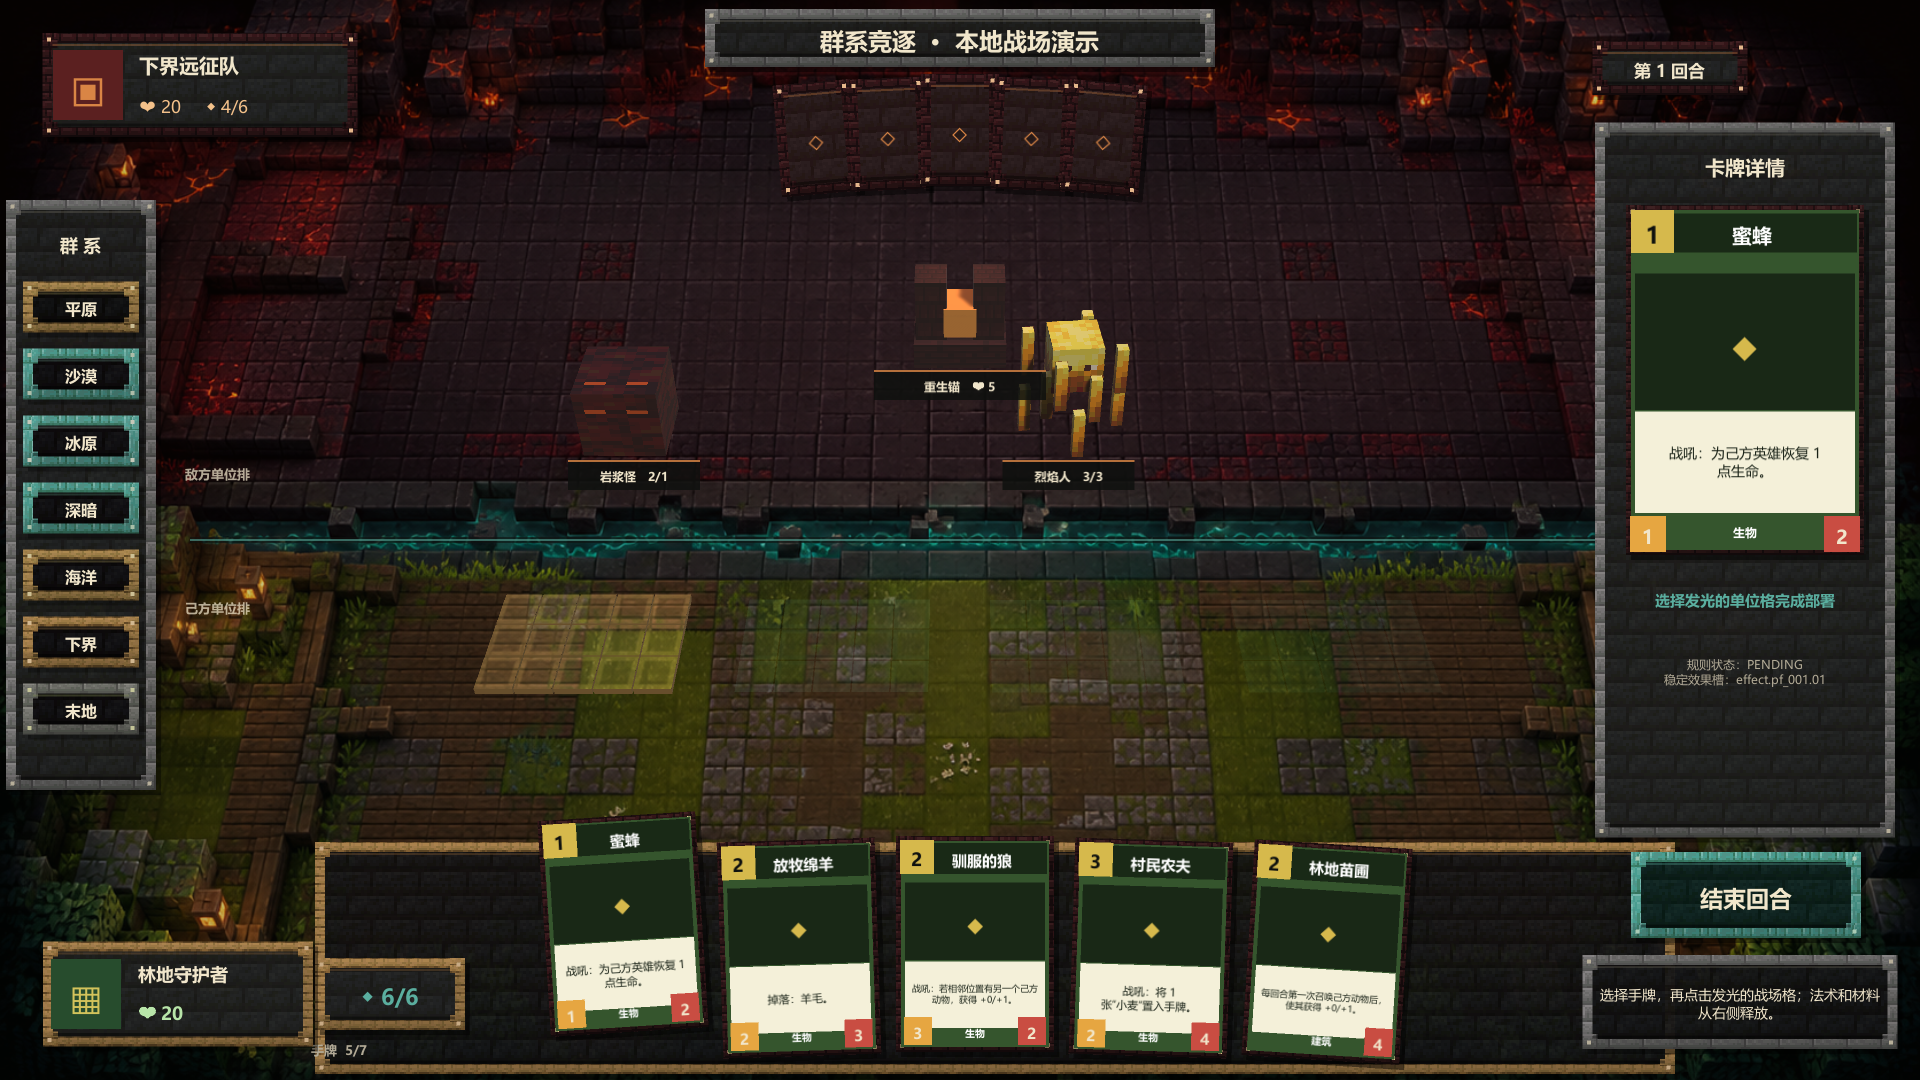
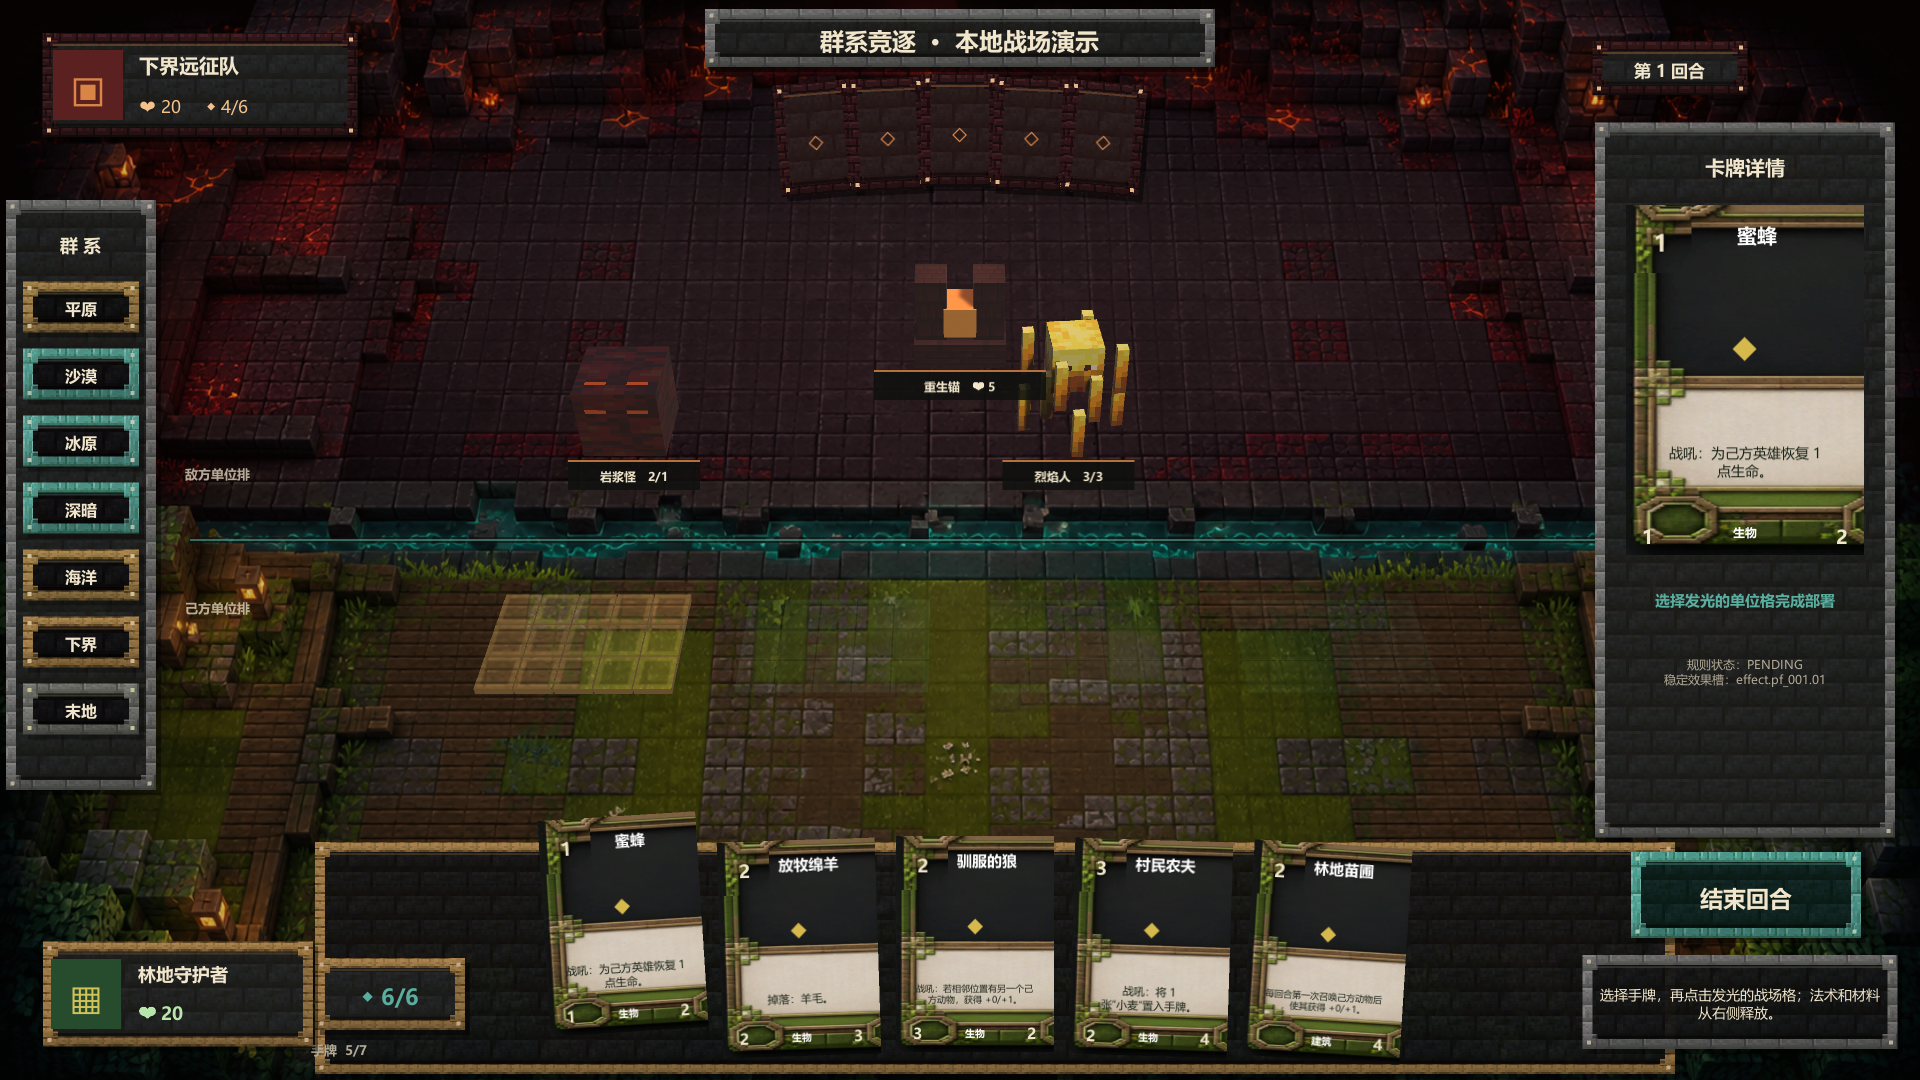
feat: apply biome card frame study

Changed region(s): [[0.2812, 0.7333, 0.75, 1.0], [0.8438, 0.1833, 0.9688, 0.5194]]

diff --git a/client-unity/Assets/Game/Demo/Runtime/DemoSceneController.cs b/client-unity/Assets/Game/Demo/Runtime/DemoSceneController.cs
@@ -497,34 +497,62 @@ namespace BiomeRivals.Demo
             var shell = Color.Lerp(theme.FrameDark, Ink, 0.28f);
             var frame = Color.Lerp(theme.FrameBase, PanelRaised, 0.18f);
             var cardEdge = Color.Lerp(theme.Accent, OakEdge, 0.34f);
-            var root = CreateFramedPanel(parent, "Card_" + cardId, Vector2.zero, size, shell, cardEdge);
-            var image = root.GetComponent<Image>();
+            var frameSprite = DemoCardFrameProvider.Load(definition.themeId);
+            var usesStudyFrame = frameSprite != null;
+            RectTransform root;
+            Image image;
+            if (usesStudyFrame)
+            {
+                root = CreateRect(parent, "Card_" + cardId, Vector2.zero, size);
+                image = root.gameObject.AddComponent<Image>();
+                image.sprite = frameSprite;
+                image.type = Image.Type.Simple;
+                image.preserveAspect = false;
+                image.color = Color.white;
+            }
+            else
+            {
+                root = CreateFramedPanel(parent, "Card_" + cardId, Vector2.zero, size, shell, cardEdge);
+                image = root.GetComponent<Image>();
+            }
             if (onClick != null)
             {
                 var button = root.gameObject.AddComponent<Button>();
                 button.targetGraphic = image;
-                ConfigureButtonColors(button, shell, theme.Accent);
+                ConfigureButtonColors(button, usesStudyFrame ? Color.white : shell, theme.Accent);
                 button.onClick.AddListener(() => onClick());
             }
 
-            var inner = CreatePanel(root, "Frame", Vector2.zero, size - new Vector2(10, 10), frame);
-            inner.raycastTarget = false;
+            if (!usesStudyFrame)
+            {
+                var inner = CreatePanel(root, "Frame", Vector2.zero, size - new Vector2(10, 10), frame);
+                inner.raycastTarget = false;
+            }
             var h = size.y;
             var w = size.x;
             var titleHeight = compact ? 31f : 39f;
             var titleY = h * 0.5f - titleHeight * 0.72f;
-            CreatePanel(root, "TitleBand", new Vector2(0, titleY), new Vector2(w - 14, titleHeight), shell).raycastTarget = false;
-            CreateText(root, "Name", new Vector2(7, titleY), new Vector2(w - 50, titleHeight - 4), text.name, compact ? 15 : 20, theme.TitleText, TextAnchor.MiddleCenter, FontStyle.Bold);
+            if (!usesStudyFrame) CreatePanel(root, "TitleBand", new Vector2(0, titleY), new Vector2(w - 14, titleHeight), shell).raycastTarget = false;
 
             var costSize = compact ? 34f : 43f;
-            CreatePanel(root, "CostSocket", new Vector2(-w * 0.5f + costSize * 0.62f, h * 0.5f - costSize * 0.62f), new Vector2(costSize, costSize), theme.Accent).raycastTarget = false;
-            CreateText(root, "Cost", new Vector2(-w * 0.5f + costSize * 0.62f, h * 0.5f - costSize * 0.62f), new Vector2(costSize, costSize), definition.cost.ToString(), compact ? 18 : 23, Ink, TextAnchor.MiddleCenter, FontStyle.Bold);
+            var socketVisualSize = usesStudyFrame ? costSize * 1.55f : costSize;
+            var costPosition = new Vector2(-w * 0.5f + socketVisualSize * 0.52f, h * 0.5f - socketVisualSize * 0.52f);
+            if (usesStudyFrame)
+            {
+                var costFrame = CreatePanel(root, "CostSocketFrame", costPosition, new Vector2(socketVisualSize, socketVisualSize), Color.white);
+                costFrame.sprite = DemoCardFrameProvider.LoadCostSocket(definition.themeId);
+                costFrame.preserveAspect = true;
+                costFrame.raycastTarget = false;
+            }
+            else CreatePanel(root, "CostSocket", costPosition, new Vector2(costSize, costSize), theme.Accent).raycastTarget = false;
+            CreateText(root, "Name", new Vector2(usesStudyFrame ? 12f : 7f, titleY), new Vector2(w - (usesStudyFrame ? 64f : 50f), titleHeight - 4), text.name, compact ? 15 : 20, theme.TitleText, TextAnchor.MiddleCenter, FontStyle.Bold);
+            CreateText(root, "Cost", costPosition, new Vector2(costSize, costSize), definition.cost.ToString(), compact ? 18 : 23, usesStudyFrame ? Pale : Ink, TextAnchor.MiddleCenter, FontStyle.Bold);
 
             var artHeight = compact ? h * 0.36f : h * 0.39f;
             var artY = compact ? h * 0.105f : h * 0.11f;
             var artWell = Color.Lerp(theme.FrameDark, Ink, 0.40f);
             artWell.a = 0.94f;
-            CreatePanel(root, "ArtWell", new Vector2(0, artY), new Vector2(w - 18, artHeight), artWell).raycastTarget = false;
+            if (!usesStudyFrame) CreatePanel(root, "ArtWell", new Vector2(0, artY), new Vector2(w - 18, artHeight), artWell).raycastTarget = false;
             var sprite = DemoCardArtProvider.Load(cardId);
             if (sprite != null)
             {
@@ -540,17 +568,17 @@ namespace BiomeRivals.Demo
 
             var rulesHeight = compact ? h * 0.31f : h * 0.29f;
             var rulesY = -h * 0.235f;
-            CreatePanel(root, "RulesSurface", new Vector2(0, rulesY), new Vector2(w - 18, rulesHeight), theme.RulesSurface).raycastTarget = false;
-            var rules = CreateText(root, "Rules", new Vector2(0, rulesY + 2), new Vector2(w - 30, rulesHeight - 8), text.rulesText, compact ? 11 : 14, theme.BodyText, TextAnchor.MiddleCenter, FontStyle.Normal);
+            if (!usesStudyFrame) CreatePanel(root, "RulesSurface", new Vector2(0, rulesY), new Vector2(w - 18, rulesHeight), theme.RulesSurface).raycastTarget = false;
+            var rules = CreateText(root, "Rules", new Vector2(0, rulesY + 2), new Vector2(w - (usesStudyFrame ? 38 : 30), rulesHeight - (usesStudyFrame ? 15 : 8)), text.rulesText, compact ? 11 : 14, theme.BodyText, TextAnchor.MiddleCenter, FontStyle.Normal);
             rules.resizeTextForBestFit = compact;
             rules.resizeTextMinSize = 9;
             rules.resizeTextMaxSize = compact ? 11 : 14;
 
             var typeY = -h * 0.5f + (compact ? 20f : 24f);
             CreateText(root, "Type", new Vector2(0, typeY), new Vector2(w - 54, compact ? 20 : 24), text.typeLabel, compact ? 10 : 12, theme.TitleText, TextAnchor.MiddleCenter, FontStyle.Bold);
-            if (definition.hasAttack) CreateStat(root, new Vector2(-w * 0.5f + 22, -h * 0.5f + 21), definition.attack.ToString(), Hex("#E6A641"), compact ? 28 : 36);
-            if (definition.hasHealth) CreateStat(root, new Vector2(w * 0.5f - 22, -h * 0.5f + 21), definition.health.ToString(), Hex("#C94D42"), compact ? 28 : 36);
-            if (definition.hasDurability) CreateStat(root, new Vector2(w * 0.5f - 22, -h * 0.5f + 21), definition.durability.ToString(), Hex("#74A9B8"), compact ? 28 : 36);
+            if (definition.hasAttack) CreateStat(root, new Vector2(-w * 0.5f + 22, -h * 0.5f + 21), definition.attack.ToString(), Hex("#E6A641"), compact ? 28 : 36, !usesStudyFrame);
+            if (definition.hasHealth) CreateStat(root, new Vector2(w * 0.5f - 22, -h * 0.5f + 21), definition.health.ToString(), Hex("#C94D42"), compact ? 28 : 36, !usesStudyFrame);
+            if (definition.hasDurability) CreateStat(root, new Vector2(w * 0.5f - 22, -h * 0.5f + 21), definition.durability.ToString(), Hex("#74A9B8"), compact ? 28 : 36, !usesStudyFrame);
             return root;
         }
 
@@ -571,9 +599,9 @@ namespace BiomeRivals.Demo
             CreateText(parent, "WorldLabelText", new Vector2(0, labelY), new Vector2(size.x - 14, 26), stats, 12, Pale, TextAnchor.MiddleCenter, FontStyle.Bold);
         }
 
-        private void CreateStat(Transform parent, Vector2 position, string value, Color color, float size)
+        private void CreateStat(Transform parent, Vector2 position, string value, Color color, float size, bool drawSocket)
         {
-            CreatePanel(parent, "StatSocket", position, new Vector2(size, size), color).raycastTarget = false;
+            if (drawSocket) CreatePanel(parent, "StatSocket", position, new Vector2(size, size), color).raycastTarget = false;
             CreateText(parent, "Stat", position, new Vector2(size, size), value, Mathf.RoundToInt(size * 0.54f), Pale, TextAnchor.MiddleCenter, FontStyle.Bold);
         }
 
@@ -687,7 +715,7 @@ namespace BiomeRivals.Demo
 
         private static void ClearChildren(Transform parent)
         {
-            for (var i = parent.childCount - 1; i >= 0; i--) Destroy(parent.GetChild(i).gameObject);
+            for (var i = parent.childCount - 1; i >= 0; i--) DestroyUiObject(parent.GetChild(i).gameObject);
         }
 
         private static void ClearChildrenExcept(Transform parent, GameObject preserved)
@@ -695,8 +723,14 @@ namespace BiomeRivals.Demo
             for (var i = parent.childCount - 1; i >= 0; i--)
             {
                 var child = parent.GetChild(i).gameObject;
-                if (child != preserved) Destroy(child);
+                if (child != preserved) DestroyUiObject(child);
             }
+        }
+
+        private static void DestroyUiObject(GameObject target)
+        {
+            if (Application.isPlaying) Destroy(target);
+            else DestroyImmediate(target);
         }
 
         private static Color Hex(string value)

diff --git a/client-unity/Assets/Game/Demo/Runtime/DemoCardFrameProvider.cs b/client-unity/Assets/Game/Demo/Runtime/DemoCardFrameProvider.cs
@@ -1,0 +1,74 @@
+using System;
+using System.Collections.Generic;
+using UnityEngine;
+
+namespace BiomeRivals.Demo
+{
+    internal static class DemoCardFrameProvider
+    {
+        private const string ResourcePath = "DemoCardFrames/card-frame-theme-study-v1";
+
+        private static readonly string[] ThemeOrder =
+        {
+            "plains_forest",
+            "desert_badlands",
+            "snow_ice",
+            "cave_dark_forest",
+            "ocean_river",
+            "nether",
+            "end"
+        };
+
+        private static readonly Rect[] FrameRects =
+        {
+            new Rect(24, 201, 218, 520),
+            new Rect(257, 201, 220, 520),
+            new Rect(488, 201, 220, 520),
+            new Rect(721, 201, 219, 520),
+            new Rect(950, 201, 221, 520),
+            new Rect(1184, 201, 221, 520),
+            new Rect(1416, 201, 222, 520)
+        };
+
+        private static readonly Rect[] CostSocketRects =
+        {
+            new Rect(24, 640, 75, 81),
+            new Rect(257, 640, 76, 81),
+            new Rect(488, 638, 78, 83),
+            new Rect(721, 639, 77, 82),
+            new Rect(950, 638, 79, 83),
+            new Rect(1184, 638, 80, 83),
+            new Rect(1416, 638, 79, 83)
+        };
+
+        private static readonly Dictionary<string, Sprite> Cache = new Dictionary<string, Sprite>(StringComparer.Ordinal);
+
+        public static Sprite Load(string themeId)
+        {
+            return LoadSlice(themeId, FrameRects, "CardFrame_", string.Empty);
+        }
+
+        public static Sprite LoadCostSocket(string themeId)
+        {
+            return LoadSlice(themeId, CostSocketRects, "CardCostSocket_", "_cost");
+        }
+
+        private static Sprite LoadSlice(string themeId, IReadOnlyList<Rect> rects, string spritePrefix, string cacheSuffix)
+        {
+            if (string.IsNullOrWhiteSpace(themeId)) return null;
+            Sprite cached;
+            var cacheKey = themeId + cacheSuffix;
+            if (Cache.TryGetValue(cacheKey, out cached) && cached != null) return cached;
+            var themeIndex = Array.IndexOf(ThemeOrder, themeId);
+            if (themeIndex < 0) return null;
+            var texture = Resources.Load<Texture2D>(ResourcePath);
+            if (texture == null || texture.width < 1638 || texture.height < 946) return null;
+            texture.filterMode = FilterMode.Bilinear;
+            texture.wrapMode = TextureWrapMode.Clamp;
+            var sprite = Sprite.Create(texture, rects[themeIndex], new Vector2(0.5f, 0.5f), 100f, 0, SpriteMeshType.FullRect);
+            sprite.name = spritePrefix + themeId;
+            Cache[cacheKey] = sprite;
+            return sprite;
+        }
+    }
+}

diff --git a/client-unity/Assets/Game/Demo/Tests/EditMode/DemoLocalMatchTests.cs b/client-unity/Assets/Game/Demo/Tests/EditMode/DemoLocalMatchTests.cs
@@ -97,6 +97,33 @@ namespace BiomeRivals.Demo.Tests
                 Assert.That(root.transform.Find("DemoCanvas/PlayerHUD/FrameTop").GetComponent<UnityEngine.UI.RawImage>().texture.name, Does.Contain("oak_planks"));
                 Assert.That(root.transform.Find("DemoCanvas/InspectorPanel/FrameTop").GetComponent<UnityEngine.UI.RawImage>().texture.name, Does.Contain("stone_bricks"));
                 Assert.That(root.transform.Find("DemoCanvas/EndTurn/FrameTop").GetComponent<UnityEngine.UI.RawImage>().texture.name, Does.Contain("prismarine_bricks"));
+                var themedCard = GameObject.Find("Card_pf_001");
+                Assert.That(themedCard, Is.Not.Null);
+                Assert.That(themedCard.GetComponent<UnityEngine.UI.Image>().sprite.name, Is.EqualTo("CardFrame_plains_forest"));
+                Assert.That(themedCard.transform.Find("MaterialFill"), Is.Null);
+                Assert.That(themedCard.transform.Find("TitleBand"), Is.Null);
+                Assert.That(themedCard.transform.Find("CostSocket"), Is.Null);
+                Assert.That(themedCard.transform.Find("CostSocketFrame").GetComponent<UnityEngine.UI.Image>().sprite.name, Is.EqualTo("CardCostSocket_plains_forest"));
+                var frameMappings = new[,]
+                {
+                    { "plains_forest", "pf" },
+                    { "desert_badlands", "db" },
+                    { "snow_ice", "si" },
+                    { "cave_dark_forest", "cd" },
+                    { "ocean_river", "or" },
+                    { "nether", "nt" },
+                    { "end", "ed" }
+                };
+                for (var mapping = 0; mapping < frameMappings.GetLength(0); mapping++)
+                {
+                    var themeId = frameMappings[mapping, 0];
+                    var prefix = frameMappings[mapping, 1];
+                    GameObject.Find("Faction_" + themeId).GetComponent<UnityEngine.UI.Button>().onClick.Invoke();
+                    var card = GameObject.Find("Card_" + prefix + "_001");
+                    Assert.That(card, Is.Not.Null, themeId);
+                    Assert.That(card.GetComponent<UnityEngine.UI.Image>().sprite.name, Is.EqualTo("CardFrame_" + themeId));
+                    Assert.That(card.transform.Find("CostSocketFrame").GetComponent<UnityEngine.UI.Image>().sprite.name, Is.EqualTo("CardCostSocket_" + themeId));
+                }
 
                 var playerUnit = battlefield.GetSlotReferencePosition(true, DemoSlotKind.Unit, 0);
                 var opponentUnit = battlefield.GetSlotReferencePosition(false, DemoSlotKind.Unit, 0);

diff --git a/client-unity/Assets/Game/Demo/Editor/DemoWorldTexturePostprocessor.cs b/client-unity/Assets/Game/Demo/Editor/DemoWorldTexturePostprocessor.cs
@@ -7,11 +7,24 @@ namespace BiomeRivals.Demo.Editor
     public sealed class DemoWorldTexturePostprocessor : AssetPostprocessor
     {
         private const string TextureRoot = "Assets/Generated/MinecraftWorldTextures/Resources/DemoWorld/";
+        private const string CardFrameRoot = "Assets/Game/Demo/Art/Resources/DemoCardFrames/";
 
         private void OnPreprocessTexture()
         {
-            if (!assetPath.StartsWith(TextureRoot, StringComparison.Ordinal)) return;
             var importer = (TextureImporter)assetImporter;
+            if (assetPath.StartsWith(CardFrameRoot, StringComparison.Ordinal))
+            {
+                importer.textureType = TextureImporterType.Default;
+                importer.filterMode = FilterMode.Bilinear;
+                importer.mipmapEnabled = false;
+                importer.sRGBTexture = true;
+                importer.textureCompression = TextureImporterCompression.Uncompressed;
+                importer.wrapMode = TextureWrapMode.Clamp;
+                importer.npotScale = TextureImporterNPOTScale.None;
+                importer.maxTextureSize = 2048;
+                return;
+            }
+            if (!assetPath.StartsWith(TextureRoot, StringComparison.Ordinal)) return;
             importer.textureType = TextureImporterType.Default;
             importer.filterMode = FilterMode.Point;
             importer.mipmapEnabled = true;

diff --git a/docs/design/Card_Face_Design_System_v0.1.md b/docs/design/Card_Face_Design_System_v0.1.md
@@ -6,7 +6,9 @@
 
 ![七群系卡框样张](assets/card-frame-theme-study-v1.png)
 
-样张由内置 imagegen 生成，只用于确定视觉方向。它不包含正式文字、原版物品图或可直接发布的切片资源；最终卡面必须由 Unity 模板、注册数据和受控资源共同渲染。
+样张由内置 imagegen 生成，并由项目负责人指定为当前可玩 Demo 的卡框视觉基准。构建脚本将该样张同步到 Unity 受控资源目录，`DemoCardFrameProvider` 按固定群系顺序切出七套框体；卡名、费用、物品图、规则、类型和属性仍由 Unity 模板与注册数据实时叠加，不得烘焙进样张。
+
+当前切片用于原型阶段锁定风格，不等同于最终发行资产。进入正式资源阶段时，需要按相同槽位和稳定资源路径导出透明背景、可九宫格缩放的独立框体，但不得重新退回通用纯色框或让卡牌复用战场 HUD 的石砖容器。
 
 ## 2. 标准布局
 
@@ -66,6 +68,8 @@
 ## 7. 生产规则
 
 - 卡名、费用、属性、描述不得烘焙进插画或卡框图片。
+- 七群系卡框顺序固定为平原森林、沙漠恶地、雪山冰原、洞穴黑森林、海洋河流、下界、末地；运行时映射集中注册在 `DemoCardFrameProvider`，业务 UI 不得通过下标自行裁切。
+- `scripts/sync-card-frame-study.ps1` 保证设计样张和 Unity 运行时副本哈希一致，禁止手工分别修改两个副本。
 - Prefab 不保存具体群系颜色；只保存语义槽位，由主题注册表注入。
 - 所有卡牌通过稳定 `cardId` 查名称、主题、图像和玩法数据。
 - 新卡注册必须同时通过：ID 唯一、名称键唯一、主题存在、图片资源状态明确。

diff --git a/docs/design/Demo_UI_Design_v0.1.md b/docs/design/Demo_UI_Design_v0.1.md
@@ -23,6 +23,7 @@
 - 通用 HUD 只使用低饱和深板岩、旧木和羊皮纸色；青色仅表示能量、分界线和合法操作。
 - 队伍栏、检查器、群系栏和回合控件不得使用纯色半透明矩形配矢量描边；容器统一由深色黑石砖内板、可平铺石砖/木板/下界砖/海晶砖边框、像素角件和金属铆钉构成，形成可被“打造”出来的实体感。
 - 材质组件优先读取本机 Minecraft JAR 白名单提取纹理；缺少本地资源时使用同尺寸、点采样、可重复平铺的确定性像素后备纹理，禁止因此退回 Web/App 风格边框。
+- 卡牌是独立视觉系统：手牌与详情卡统一使用 `card-frame-theme-study-v1.png` 的七群系框体结构，不得套用通用 HUD 的石砖/木板容器边框；卡牌内容继续由注册数据动态填充。
 - 群系主色只进入卡牌框、激活按钮和少量状态点，不给整块外围面板染色。
 - 空战场格默认不绘制任何框或编号；合法部署时直接提高对应地砖表面的亮度并轻微强调 Minecraft 式方块边缘，悬停合法地块时地砖材质变金、整体抬升并露出侧壁，已有单位的地块由 3D 模型占据。
 - 背景统一覆盖轻微暗色罩层，保证文字可读，同时保留上下群系材质差异。
